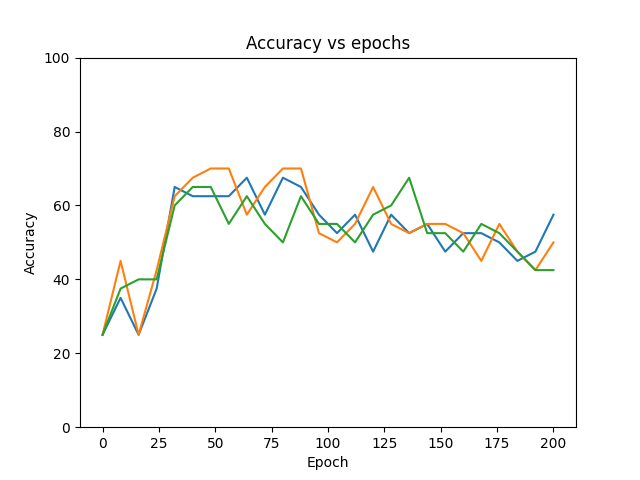
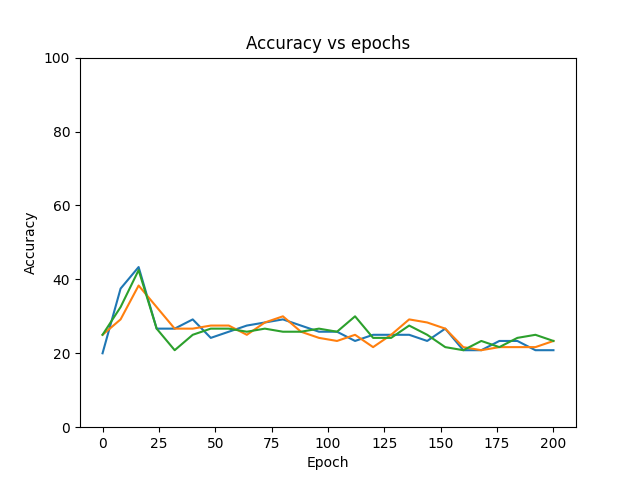
Experiments working

Changed region(s): [[0.1562, 0.3438, 0.875, 0.75]]

diff --git a/main.py b/main.py
@@ -1,4 +1,5 @@
 import argparse
+import random
 from argparse import Namespace
 
 import torch
@@ -34,33 +35,21 @@ class Experiment:
         # self.train_dataset = datasets.MNIST('./data', train=True, download=True, transform=transform)
         # test_dataset = datasets.MNIST('./data', train=False, transform=transform)
         # self.loss_fn = torch.nn.NLLLoss(reduction='sum')
-        # self.accuracy_loss_samples = 2000
+        # self.accuracy_loss_experiment_samples = 2000
         # self.fl_experiment_samples_per_batch = 20
         # self.fl_experiment_batches = 30
 
         self.net = KWSNet
-        # MFCC
         transform = transforms.Compose([
             MFCC(n_mfcc=13, melkwargs={"n_mels": 32}),
             lambda x: x.flatten(),
         ])
-        # Chunked average
-        # transform = transforms.Compose([
-        #     lambda v: v.unfold(0, 50, 50).mean(dim=1),
-        #     # transforms.Normalize(0, (0.5,))
-        # ])
-        # Spectrogram
-        # transform = transforms.Compose([
-        #     torchaudio.transforms.Spectrogram(),
-        #     # lambda x: x.squeeze(0)
-        # ])
         self.train_dataset = KWSDataset(True, transform=transform)
         test_dataset = KWSDataset(False, transform=transform)
         self.loss_fn = torch.nn.CrossEntropyLoss()
-        self.accuracy_loss_samples = 300
+        self.accuracy_loss_experiment_samples = 600
         self.fl_experiment_samples_per_batch = 8
         self.fl_experiment_batches = 25
-        # TODO: Split into traint and test
 
 
         self.train_kwargs = {'batch_size': 1}
@@ -116,15 +105,17 @@ class Experiment:
         return models, optimizers
 
     def quantize_and_restore_weights(self, original_weights, quantization_bits):
+        batch_size = len(original_weights) if self.args.batch_size is None else self.args.batch_size
         restored_weights = []
-        for weights in np.array_split(original_weights, self.args.batch_size):
+        for weights in np.array_split(original_weights, range(batch_size, len(original_weights), batch_size)):
             min_w, max_w, scaled_weights = scale_weights(weights.tolist(), quantization_bits)
             restored_weights += descale_weights(scaled_weights, quantization_bits, min_w, max_w)
         return restored_weights
 
-    def accuracy_loss_experiment(self):
+    def accuracy_loss_experiment(self, filename: str):
         models, optimizers = self.init_models(1)
-        self.train(models[0], range(0, self.accuracy_loss_samples), optimizers[0])
+        self.train(models[0], range(0, self.accuracy_loss_experiment_samples), optimizers[0])
+        original_accuracy = self.test(models[0])
 
         original_weights = models[0].get_flat_weights()
         scaled_weight_bits = list(range(2, 10, 1))
@@ -139,12 +130,12 @@ class Experiment:
         plt.plot(scaled_weight_bits, accuracies)
         plt.xlabel("Quantization bits")  # add X-axis label
         plt.ylabel("Accuracy")  # add Y-axis label
-        plt.ylim(0, 100)
-        plt.title("Accuracy vs quantization bits")
-        plt.savefig("plots/accuracies.png")
-        print("Created plots/accuracies.png")
+        plt.ylim(-5, 105)
+        plt.title("Accuracy drop vs quantization bits")
+        plt.savefig(f"plots/{filename}.png")
+        print(f"Generated plots/{filename}.png")
 
-    def fl_experiment(self, fl: bool, quantization_bits: int, filename):
+    def fl_experiment(self, fl: bool, quantization_bits: int|None, filename):
         num_models = 3
         models, optimizers = self.init_models(num_models)
         samples_per_batch = self.fl_experiment_samples_per_batch
@@ -162,9 +153,9 @@ class Experiment:
             x.append((batch_index + 1) * samples_per_batch)
 
             if not fl:
-                # Get the weights from model 1, quantize and restore them, merge them with model 0 and set them on model 0
-                weights = [self.quantize_and_restore_weights(model.get_flat_weights(), quantization_bits) for model in
-                           models]
+                weights = [
+                    self.quantize_and_restore_weights(model.get_flat_weights(), quantization_bits) for model in models
+                ]
                 averaged_weights = np.sum(weights, axis=0) / len(models)
                 for model in models:
                     model.set_flat_weights(averaged_weights)
@@ -185,21 +176,24 @@ def main():
     parser.add_argument('--momentum', type=float, default=0.9, help='Momentum')
     parser.add_argument('--no-accel', action='store_true', help='Disable accelerator')
     parser.add_argument('--seed', type=int, default=1, help='Random seed')
-    parser.add_argument('--batch-size', type=int, default=200, help='Weights batch size')
+    parser.add_argument('--batch-size', type=int, default=None, help='Weights batch size')
     args = parser.parse_args()
 
+    random.seed(args.seed)
+    np.random.seed(args.seed)
     torch.manual_seed(args.seed)
 
     experiment = Experiment(args)
-    experiment.accuracy_loss_experiment()
+    experiment.accuracy_loss_experiment('accuracies')
 
-    # experiment.fl_experiment(True, 16, 'accuracy_vs_epochs_no_fl')
+    experiment.fl_experiment(True, None, 'accuracy_vs_epochs_no_fl')
     experiment.fl_experiment(False, 32, 'accuracy_vs_epochs_32')
     experiment.fl_experiment(False, 16, 'accuracy_vs_epochs_16')
     experiment.fl_experiment(False, 8, 'accuracy_vs_epochs_8')
     experiment.fl_experiment(False, 4, 'accuracy_vs_epochs_4')
     experiment.fl_experiment(False, 2, 'accuracy_vs_epochs_2')
     experiment.fl_experiment(False, 1, 'accuracy_vs_epochs_1')
+
 
 
 if __name__ == '__main__':

diff --git a/KWSDataset.py b/KWSDataset.py
@@ -9,9 +9,9 @@ from torch.utils.data import Dataset
 class KWSDataset(Dataset):
     keywords = ["montserrat", "pedraforca", "vermell", "blau"]
     samples_folder = "./data/keywords"
-    test_samples = 40
+    test_samples = 120
 
-    def __init__(self, tain: bool, transform=None):
+    def __init__(self, train: bool, transform=None):
         files = []
         for i, word in enumerate(self.keywords):
             file_list = os.listdir(f"{self.samples_folder}/{word}")
@@ -19,11 +19,13 @@ class KWSDataset(Dataset):
             files.append(list(map(lambda f: f"{word}/{f}", file_list)))
 
         all_samples = list(sum(zip(*files), ()))
-        self.samples = all_samples[0:len(all_samples) - self.test_samples] if tain else all_samples[len(all_samples) - self.test_samples : len(all_samples)]
+
+        begin = 0 if train else len(all_samples) - self.test_samples
+        end = len(all_samples) - self.test_samples if train else len(all_samples)
+        self.samples = all_samples[begin:end] if train else all_samples[begin:end]
+
         self.transform = transform
 
-        self.mean = -0.7344476580619812
-        self.std = 2404.997314453125
         # all_features = []
         # for i in range(0, self.__len__()):
         #     data = self.__get_raw_values__(i)
@@ -32,7 +34,8 @@ class KWSDataset(Dataset):
         #
         # self.mean = all_features_tensor.mean()
         # self.std = all_features_tensor.std()
-
+        self.mean = -0.7344476580619812
+        self.std = 2404.997314453125
 
     def __len__(self):
         return len(self.samples)

diff --git a/Nets.py b/Nets.py
@@ -1,7 +1,6 @@
 import torch.nn as nn
 import torch
 import torch.nn.functional as F
-import torchvision
 from torch import Tensor
 
 
@@ -46,9 +45,15 @@ class MnistNet(Net):
 class KWSNet(Net):
     def __init__(self):
         super(KWSNet, self).__init__()
-        # self.fc1 = nn.Linear(1053, 25)
-        self.fc1 = nn.Linear(1053, 50)
-        self.fc2 = nn.Linear(50, 4)
+        self.fc1 = nn.Linear(1053, 20)
+        self.fc2 = nn.Linear(20, 4)
+
+        nn.init.uniform_(self.fc1.weight, -1, 1)
+        nn.init.uniform_(self.fc2.weight, -1, 1)
+
+        # (Optional) You may also want to initialize biases similarly
+        nn.init.uniform_(self.fc1.bias, -1, 1)
+        nn.init.uniform_(self.fc2.bias, -1, 1)
 
     def forward(self, x):
         x = self.fc1(x)
